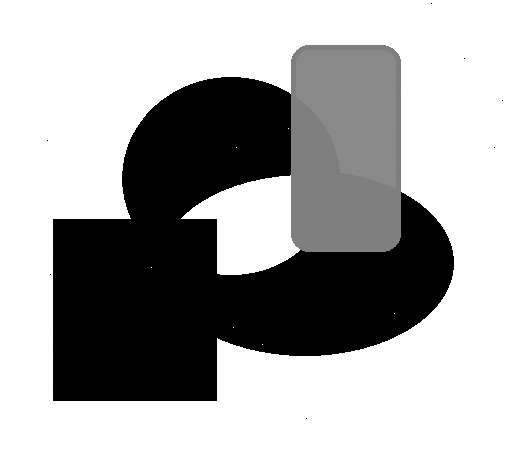
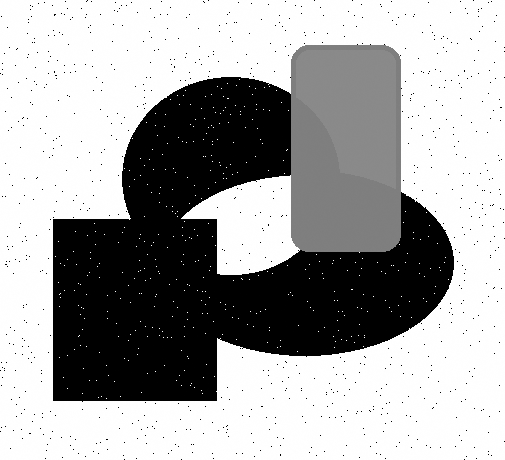
Added references to sources used to help create the program.

diff --git a/ImageProcessingAdaptiveFiltering.py b/ImageProcessingAdaptiveFiltering.py
@@ -19,7 +19,7 @@ example_arr = np.array([
 # img.size = total number of pixels in image (= img.shape[0] * img.shape[1])
 
 m = 0  # mean of Gaussian noise
-sd = 0.25  # standard deviation of Gaussian noise
+sd = 0.4  # standard deviation of Gaussian noise
 
 # Create noise in the image
 for i in range(0, img.shape[0]):
@@ -43,6 +43,12 @@ def mean(arr):
         s += np.sum(arr[index])
     return s / arr.size
 
+def arr_sum(arr):
+    s = 0
+    for index in range(0, len(arr)):
+        s += np.sum(arr[index])
+    return s
+
 
 for i in range(0, img.shape[0]):
     for j in range(0, img.shape[1]):
@@ -50,9 +56,9 @@ for i in range(0, img.shape[0]):
         local_mean[i][j] = mean(window)
         local_variance[i][j] = mean(np.square(window)) - np.square(mean(window))
 
-noise_variance = (mean(local_variance)*local_variance.size)/img.size
+noise_variance = arr_sum(local_variance)/img.size
 
-variance = max(noise_variance, mean(local_variance)*local_variance.size)
+variance = max(noise_variance, arr_sum(local_variance))
 
 img_new = img - (np.multiply(noise_variance/variance, np.subtract(img, local_mean)))
 
